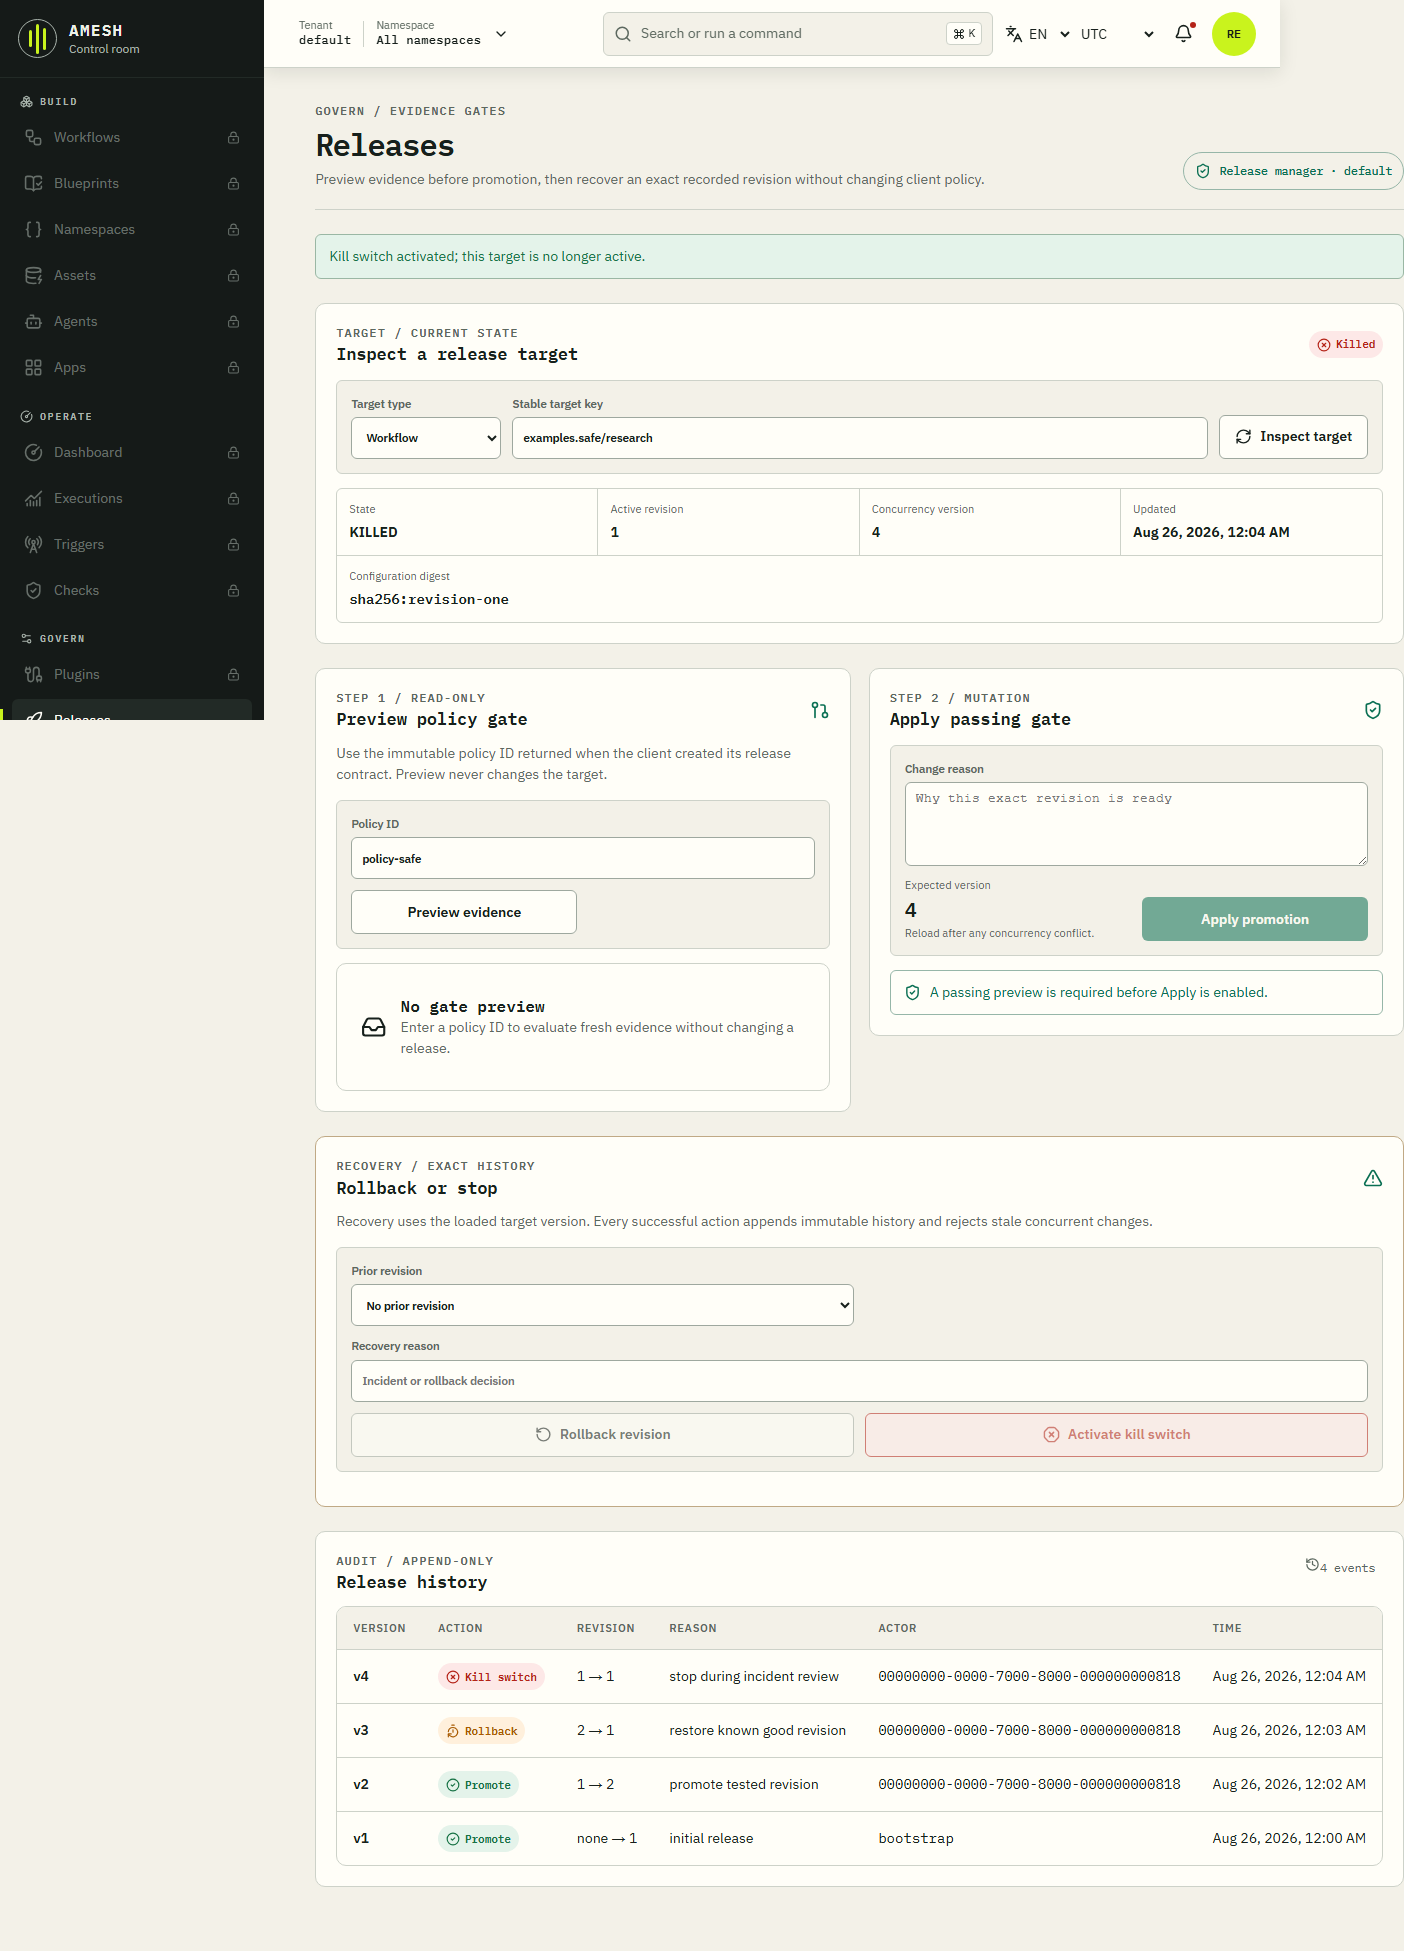
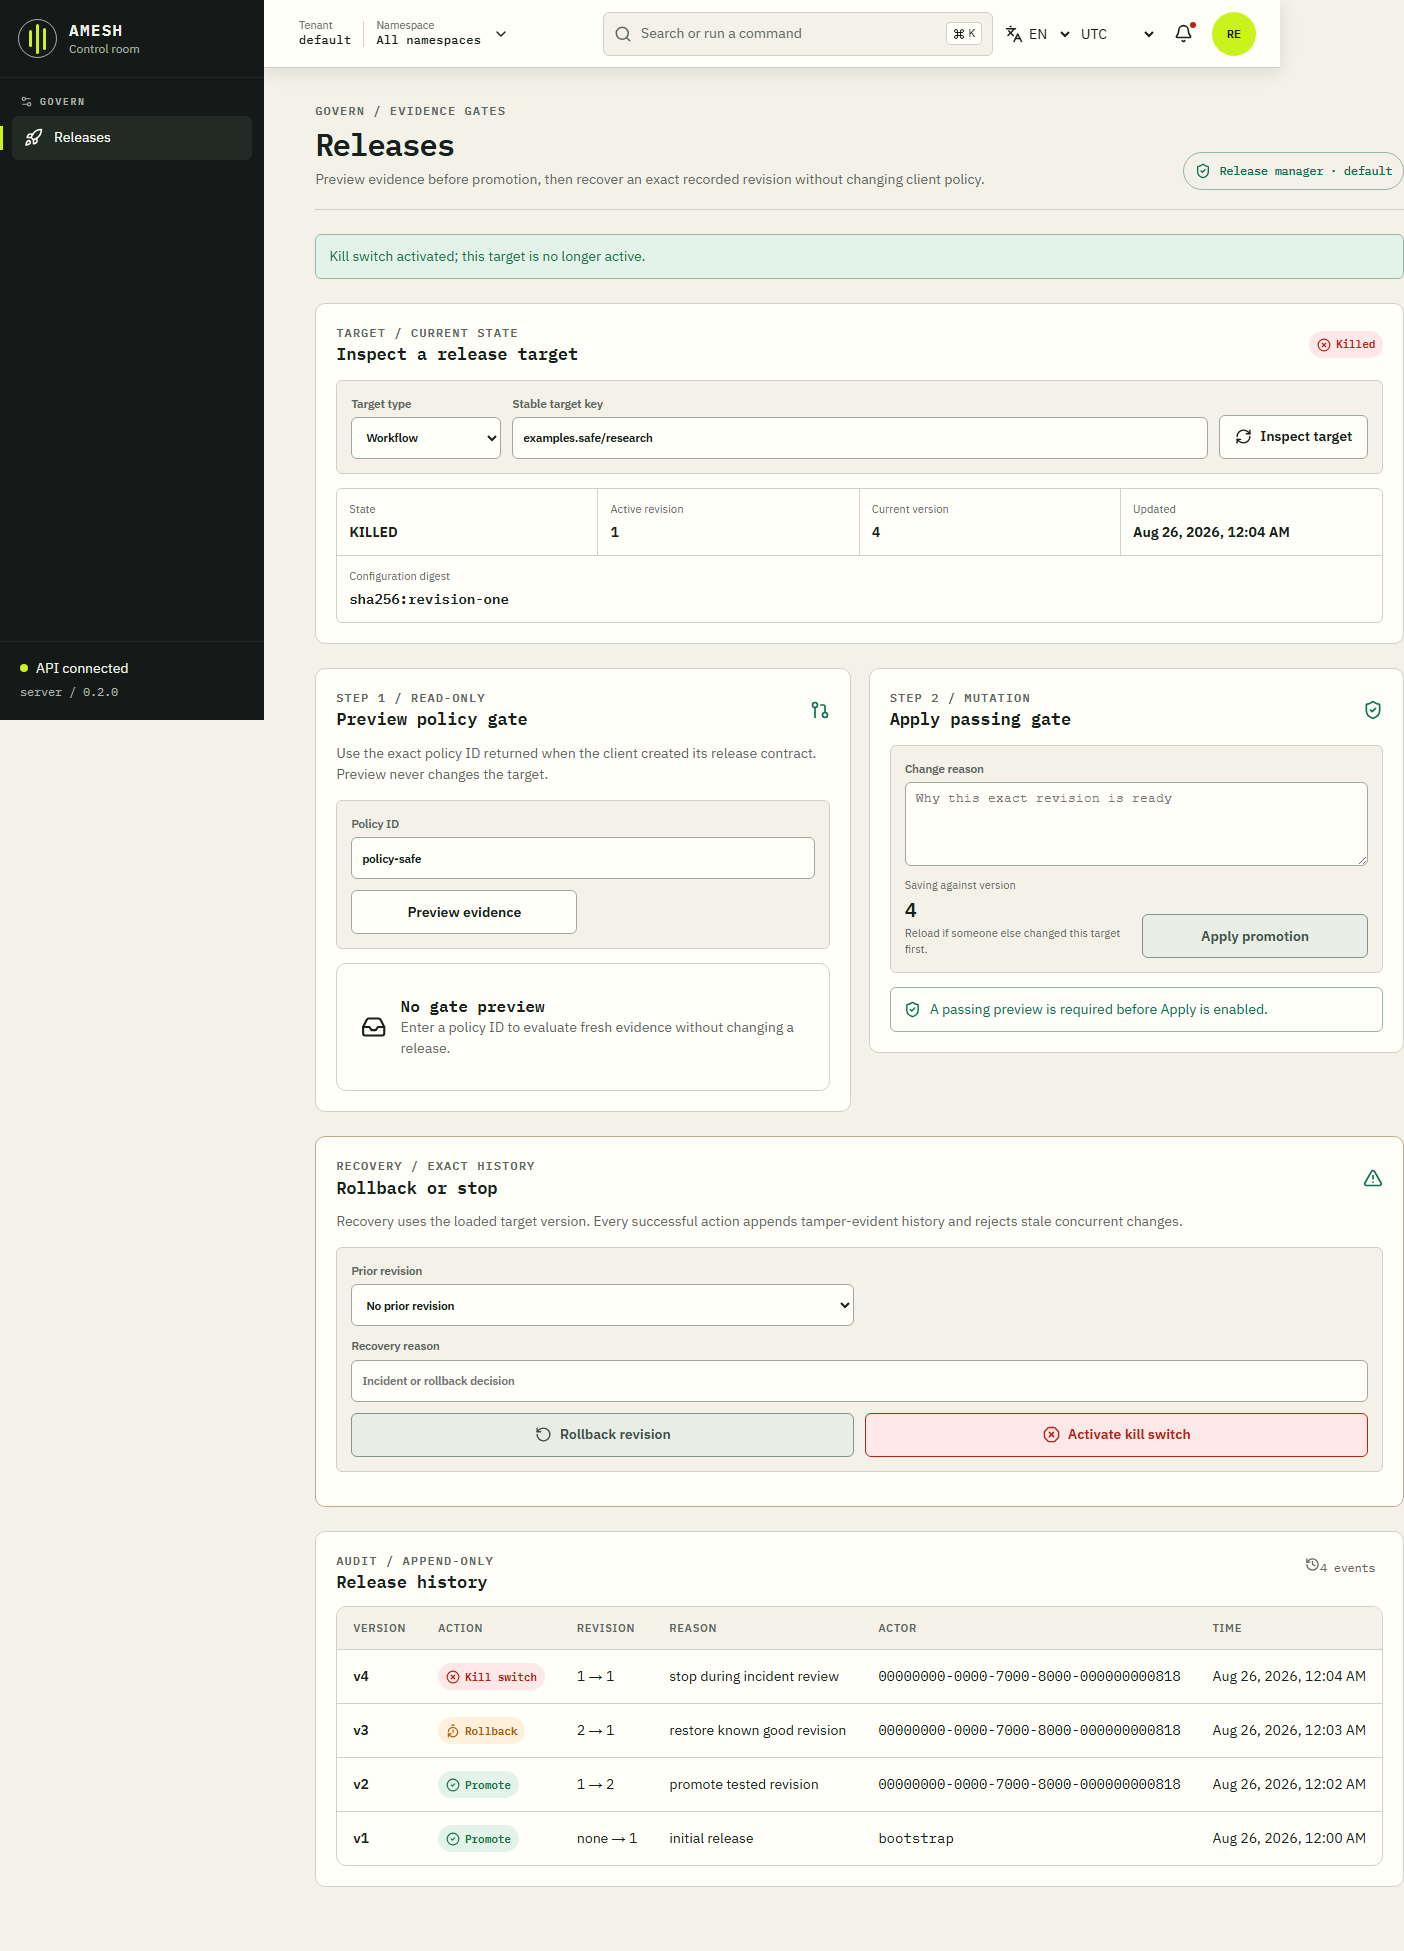
Let release target keys contain a slash (#135)
Workflow target keys are "<namespace>/<flow_id>". The console encoded the
slash, its path guard rejected the decoded '/', and the server's
single-segment {target_key} would have 404'd anyway.

- The release routes take {target_key:path}; GET history is declared
  before the bare target route so the multi-segment key cannot swallow
  its suffix. A flow id of "history" is the known ceiling (ponytail).
- runtimeApiUrl allows '/' in target_key as it does in path; every other
  parameter keeps the guard, which the transport test now asserts.
- `amesh releases` sent the target kind lowercased, which the
  WORKFLOW/AGENT enum rejects.
- release-controls.spec.ts passes again and refreshed its screenshot.

diff --git a/frontend/src/api/client.test.ts b/frontend/src/api/client.test.ts
@@ -977,18 +977,18 @@ describe('API client', () => {
 
     await api.previewRelease('policy+one')
     await api.applyRelease('policy+one', 3, 'promote tested revision')
-    await api.releaseTarget('WORKFLOW', 'examples+safe+research')
-    await api.releaseHistory('WORKFLOW', 'examples+safe+research')
-    await api.rollbackRelease('WORKFLOW', 'examples+safe+research', 2, 4, 'restore known good revision')
-    await api.killSwitchRelease('WORKFLOW', 'examples+safe+research', 5, 'stop during incident review')
+    await api.releaseTarget('WORKFLOW', 'examples.safe/research')
+    await api.releaseHistory('WORKFLOW', 'examples.safe/research')
+    await api.rollbackRelease('WORKFLOW', 'examples.safe/research', 2, 4, 'restore known good revision')
+    await api.killSwitchRelease('WORKFLOW', 'examples.safe/research', 5, 'stop during incident review')
 
     expect(fetchMock.mock.calls.map((call) => call[0] as string)).toEqual([
       '/api/v1/releases/policies/policy%2Bone/preview',
       '/api/v1/releases/policies/policy%2Bone/apply',
-      '/api/v1/releases/WORKFLOW/examples%2Bsafe%2Bresearch',
-      '/api/v1/releases/WORKFLOW/examples%2Bsafe%2Bresearch/history',
-      '/api/v1/releases/WORKFLOW/examples%2Bsafe%2Bresearch/rollback',
-      '/api/v1/releases/WORKFLOW/examples%2Bsafe%2Bresearch/kill-switch',
+      '/api/v1/releases/WORKFLOW/examples.safe%2Fresearch',
+      '/api/v1/releases/WORKFLOW/examples.safe%2Fresearch/history',
+      '/api/v1/releases/WORKFLOW/examples.safe%2Fresearch/rollback',
+      '/api/v1/releases/WORKFLOW/examples.safe%2Fresearch/kill-switch',
     ])
     expect(JSON.parse((fetchMock.mock.calls[0]?.[1] as RequestInit).body as string)).toEqual({ approvals: {} })
     expect(JSON.parse((fetchMock.mock.calls[1]?.[1] as RequestInit).body as string)).toEqual({ expectedVersion: 3, reason: 'promote tested revision', approvals: {} })

diff --git a/frontend/src/api/openapi.ts b/frontend/src/api/openapi.ts
@@ -163,6 +163,10 @@ function canonicalPathPattern(template: string): RegExp {
   return new RegExp(`^${escapedParts.join('')}$`, 'u')
 }
 
+// The server declares these as {name:path}, so their values may span segments. A release target
+// key is "<namespace>/<flow_id>" for workflows (#135).
+const multiSegmentParameters = new Set(['path', 'target_key'])
+
 export function runtimeApiUrl(template: OpenApiPath, url: string): string {
   const baseUrl = new URL('http://amesh.local')
   const candidate = url.trim()
@@ -177,7 +181,7 @@ export function runtimeApiUrl(template: OpenApiPath, url: string): string {
   const match = canonicalPathPattern(template).exec(pathname)
   const parameters = [...template.matchAll(/\{([^/{}]+)\}/gu)].map((item) => item[1])
   if (!match || match.slice(1).some((value, index) => (
-    parameters[index] !== 'path' && /[/\\]/u.test(decodeURIComponent(value))
+    !multiSegmentParameters.has(parameters[index]) && /[/\\]/u.test(decodeURIComponent(value))
   ))) {
     throw new Error(`Runtime API pathname "${pathname}" does not match canonical template "${template}"`)
   }

diff --git a/frontend/src/api/transport.test.ts b/frontend/src/api/transport.test.ts
@@ -92,6 +92,21 @@ describe('generated OpenAPI transport contracts', () => {
     expect(() => runtimeApiUrl('/health', '/health?verbose=true')).not.toThrow()
   })
 
+  it('lets only a release target key decode to a slash', () => {
+    expect(runtimeApiUrl(
+      '/api/v1/releases/{target_kind}/{target_key}/history',
+      '/api/v1/releases/WORKFLOW/examples.safe%2Fresearch/history',
+    )).toBe('/api/v1/releases/WORKFLOW/examples.safe%2Fresearch/history')
+    expect(() => runtimeApiUrl(
+      '/api/v1/releases/{target_kind}/{target_key}',
+      '/api/v1/releases/WORKFLOW%2Fx/key',
+    )).toThrow('does not match canonical template')
+    expect(() => runtimeApiUrl(
+      '/api/v1/releases/policies/{policy_id}/preview',
+      '/api/v1/releases/policies/..%2Fadmin/preview',
+    )).toThrow('does not match canonical template')
+  })
+
   it('rejects absolute, protocol-relative, and backslash cross-origin runtime URLs', () => {
     expect(() => runtimeApiUrl('/health', 'https://evil.example/health')).toThrow(
       'Runtime API URL must be same-origin and relative',

diff --git a/tests/api/test_promotion_api.py b/tests/api/test_promotion_api.py
@@ -1,6 +1,7 @@
 from __future__ import annotations
 
 from datetime import UTC, datetime
+from types import SimpleNamespace
 from typing import Any
 from uuid import uuid4
 
@@ -18,7 +19,6 @@ from amesh.domain.promotion import (
     PromotionGate,
     PromotionPolicy,
     PromotionTargetKind,
-    ReleaseTarget,
 )
 
 
@@ -32,6 +32,7 @@ class FakePromotionService:
             configurationDigest="sha256:" + "a" * 64,
             createdBy="release-manager",
         )
+        self.lookups: list[tuple[str, str]] = []
 
     async def create_policy(self, policy: PromotionPolicy) -> PromotionPolicy:
         self.policy = policy
@@ -62,8 +63,17 @@ class FakePromotionService:
     async def apply(self, *args: Any, **kwargs: Any) -> Any:
         raise AssertionError("apply is not part of this contract test")
 
-    async def get_target(self, *args: Any, **kwargs: Any) -> ReleaseTarget:
-        raise AssertionError("target is not part of this contract test")
+    async def get_target(self, tenant_id: str, kind: Any, key: str) -> dict[str, str]:
+        self.lookups.append(("target", key))
+        return {}
+
+    async def get_history(self, tenant_id: str, kind: Any, key: str) -> list[object]:
+        self.lookups.append(("history", key))
+        return []
+
+    async def rollback(self, tenant_id: str, kind: Any, key: str, **_: Any) -> Any:
+        self.lookups.append(("rollback", key))
+        return SimpleNamespace(target={}, event={})
 
 
 def test_authenticated_preview_is_tenant_scoped_and_separately_authorized() -> None:
@@ -112,3 +122,37 @@ def test_policy_create_rejects_a_different_tenant_before_persistence() -> None:
         app.dependency_overrides.clear()
 
     assert response.status_code == 403
+
+
+def test_workflow_target_key_with_a_slash_reaches_target_history_and_rollback() -> None:
+    service = FakePromotionService()
+
+    async def authorize(_: str) -> None:
+        return None
+
+    app.dependency_overrides[get_promotion_service] = lambda: service
+    app.dependency_overrides[require_tenant_context] = lambda: "tenant-a"
+    app.dependency_overrides[get_promotion_authorizer] = lambda: authorize
+    app.dependency_overrides[authenticate_actor] = lambda: ActorContext(
+        principal_id=uuid4(), principal_type=PrincipalType.USER, display="release-manager"
+    )
+    target = "/api/v1/releases/WORKFLOW/examples.safe%2Fresearch"
+    try:
+        client = TestClient(app)
+        responses = [
+            client.get(target),
+            client.get(f"{target}/history"),
+            client.post(
+                f"{target}/rollback",
+                json={"toRevision": 1, "expectedVersion": 2, "reason": "restore"},
+            ),
+        ]
+    finally:
+        app.dependency_overrides.clear()
+
+    assert [response.status_code for response in responses] == [200, 200, 200]
+    assert service.lookups == [
+        ("target", "examples.safe/research"),
+        ("history", "examples.safe/research"),
+        ("rollback", "examples.safe/research"),
+    ]

diff --git a/src/amesh/api/promotion.py b/src/amesh/api/promotion.py
@@ -130,7 +130,7 @@ def build_promotion_router(
             raise HTTPException(status_code=status.HTTP_409_CONFLICT, detail=str(exc)) from exc
         return {"target": result.target, "event": result.event}
 
-    @router.post("/{target_kind}/{target_key}/rollback")
+    @router.post("/{target_kind}/{target_key:path}/rollback")
     async def rollback(
         target_kind: PromotionTargetKind,
         target_key: str,
@@ -155,7 +155,7 @@ def build_promotion_router(
             raise HTTPException(status_code=status.HTTP_409_CONFLICT, detail=str(exc)) from exc
         return {"target": result.target, "event": result.event}
 
-    @router.post("/{target_kind}/{target_key}/kill-switch")
+    @router.post("/{target_kind}/{target_key:path}/kill-switch")
     async def kill_switch(
         target_kind: PromotionTargetKind,
         target_key: str,
@@ -179,18 +179,11 @@ def build_promotion_router(
             raise HTTPException(status_code=status.HTTP_409_CONFLICT, detail=str(exc)) from exc
         return {"target": result.target, "event": result.event}
 
-    @router.get("/{target_kind}/{target_key}")
-    async def target_state(
-        target_kind: PromotionTargetKind,
-        target_key: str,
-        current_tenant: Annotated[str, Depends(tenant_dependency)],
-        current_service: Annotated[PromotionService, Depends(service_dependency)],
-        check: Annotated[Authorize, Depends(authorization_dependency)],
-    ) -> object:
-        await check("view")
-        return await current_service.get_target(current_tenant, target_kind, target_key)
-
-    @router.get("/{target_kind}/{target_key}/history")
+    # Workflow keys are "<namespace>/<flow_id>", so the key spans path segments and history must
+    # be declared before the bare target route that would otherwise swallow its suffix (#135).
+    # ponytail: a flow whose id is "history" reads as the history of its namespace; move history
+    # under its own prefix if such a flow ever needs release controls.
+    @router.get("/{target_kind}/{target_key:path}/history")
     async def target_history(
         target_kind: PromotionTargetKind,
         target_key: str,
@@ -200,6 +193,17 @@ def build_promotion_router(
     ) -> object:
         await check("view")
         return await current_service.get_history(current_tenant, target_kind, target_key)
+
+    @router.get("/{target_kind}/{target_key:path}")
+    async def target_state(
+        target_kind: PromotionTargetKind,
+        target_key: str,
+        current_tenant: Annotated[str, Depends(tenant_dependency)],
+        current_service: Annotated[PromotionService, Depends(service_dependency)],
+        check: Annotated[Authorize, Depends(authorization_dependency)],
+    ) -> object:
+        await check("view")
+        return await current_service.get_target(current_tenant, target_kind, target_key)
 
     return router
 

diff --git a/src/amesh/entrypoints/cli.py b/src/amesh/entrypoints/cli.py
@@ -1497,7 +1497,7 @@ def _release_request(client: httpx.Client, args: argparse.Namespace) -> httpx.Re
                 "reason": args.reason,
             },
         )
-    target = f"{args.target_kind.lower()}/{quote(args.target_key, safe='')}"
+    target = f"{args.target_kind}/{quote(args.target_key, safe='')}"
     if args.release_command == "rollback":
         return client.post(
             f"/api/v1/releases/{target}/rollback",

diff --git a/tests/entrypoints/test_promotion_cli.py b/tests/entrypoints/test_promotion_cli.py
@@ -78,6 +78,6 @@ def test_release_rollback_cli_sends_optimistic_concurrency_fields(monkeypatch: A
 
     assert exit_code == 0
     assert FakeReleaseClient.request == (
-        "/api/v1/releases/workflow/checkout/rollback",
+        "/api/v1/releases/WORKFLOW/checkout/rollback",
         {"toRevision": 3, "expectedVersion": 7, "reason": "restore known-good"},
     )

diff --git a/docs/reviews/TESTLOG.md b/docs/reviews/TESTLOG.md
@@ -1,5 +1,29 @@
 # Test Log
 
+## Release target keys with a slash — #135 (2026-10-07)
+
+Spec: GitHub #135. Chosen option: the server declares `target_key` as `{target_key:path}`, and the
+client allows `/` for that parameter only.
+
+- Red first: `test_workflow_target_key_with_a_slash_reaches_target_history_and_rollback` got
+  404 on GET target, GET history and POST rollback for `examples.safe%2Fresearch`. The new
+  `transport.test.ts` case and the release case in `client.test.ts` (now using the real key)
+  failed with the issue's exact error. All three pass after the fix. History is declared before
+  the bare target route, because the multi-segment key would otherwise swallow `/history`.
+- The transport test also asserts that the guard still rejects an encoded slash in
+  `target_kind` and `policy_id`.
+- `amesh releases` lowercased the target kind (`/api/v1/releases/workflow/...`), which the
+  `WORKFLOW`/`AGENT` enum rejects. The CLI test now asserts the uppercase path, failed first, and
+  passes.
+- Playwright (Chromium, mocked APIs) `release-controls.spec.ts`: 3 passed, including the release
+  manager journey that failed in the #120/#122 run.
+- `tests/sdk/test_generated_contracts.py` passed with no OpenAPI change, since FastAPI publishes
+  `{target_key:path}` as `{target_key}`. Vitest `transport.test.ts` plus `client.test.ts` (45),
+  ESLint, `tsc -b`, Ruff, the format check and strict mypy (396 files) passed.
+- Known ceiling: a workflow whose flow id is literally `history` would read as its namespace's
+  history. A `ponytail:` comment in `src/amesh/api/promotion.py` names the upgrade (a distinct
+  history prefix).
+
 ## Guided editor readiness, workflow list status and navigation pruning — #120 / #122 / #121 (2026-09-27)
 
 Spec: GitHub #120, #122 and #121 (UI audit 2026-09-26); owner decision 3b on 2026-09-27.

diff --git a/CHANGELOG.md b/CHANGELOG.md
@@ -2,6 +2,11 @@
 
 ## Unreleased
 
+- The release manager opens workflow targets again. A workflow target key (`<namespace>/<flow_id>`)
+  may now contain a slash: the release routes accept it as a multi-segment `target_key`, and the
+  console's path guard allows a slash in that one parameter. `amesh releases` sends the target kind
+  in the case the API requires, so its rollback, kill-switch, target and history commands no
+  longer fail validation (#135).
 - The guided workflow editor no longer shows a valid unsaved draft as broken, no longer shows zero
   validation issues as an error, and explains why Save or Run is disabled (#120).
 - The Workflows list shows each workflow's last run status and time, a trigger summary and its
